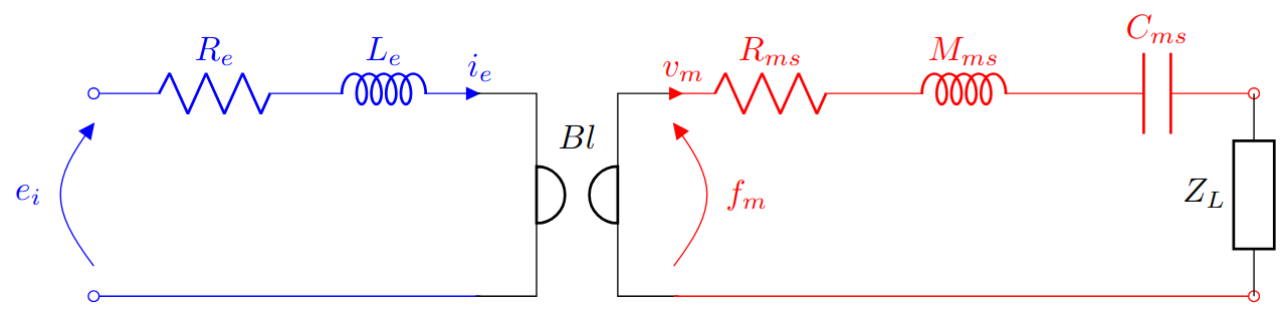
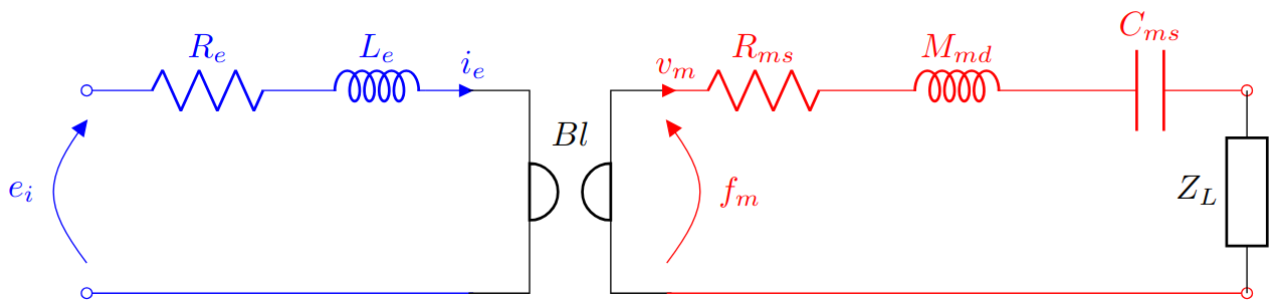
fix: Mmd and images

diff --git a/loudspeaker_tmatrix/app.py b/loudspeaker_tmatrix/app.py
@@ -60,7 +60,7 @@ with single_speaker:
             loudspeaker_cfg.mechanical.resistance,
         )
         slider_spk1_Mm = st.slider(
-            "Mechanical Mass (Mms) [g] .",
+            "Mechanical Mass (Mmd) [g] .",
             1.0,
             100.0,
             loudspeaker_cfg.mechanical.mass * 1e3,
@@ -142,7 +142,7 @@ with two_speakers:
             loudspeaker_cfg.mechanical.resistance,
         )
         slider_spk1_Mm = st.slider(
-            "Mechanical Mass (Mms) [g]",
+            "Mechanical Mass (Mmd) [g]",
             1.0,
             100.0,
             loudspeaker_cfg.mechanical.mass * 1e3,
@@ -192,7 +192,7 @@ with two_speakers:
             loudspeaker_cfg.mechanical.resistance,
         )
         slider_spk2_Mm = st.slider(
-            "Mechanical Mass (Mms) [g].",
+            "Mechanical Mass (Mmd) [g].",
             1.0,
             100.0,
             loudspeaker_cfg.mechanical.mass * 1e3,
